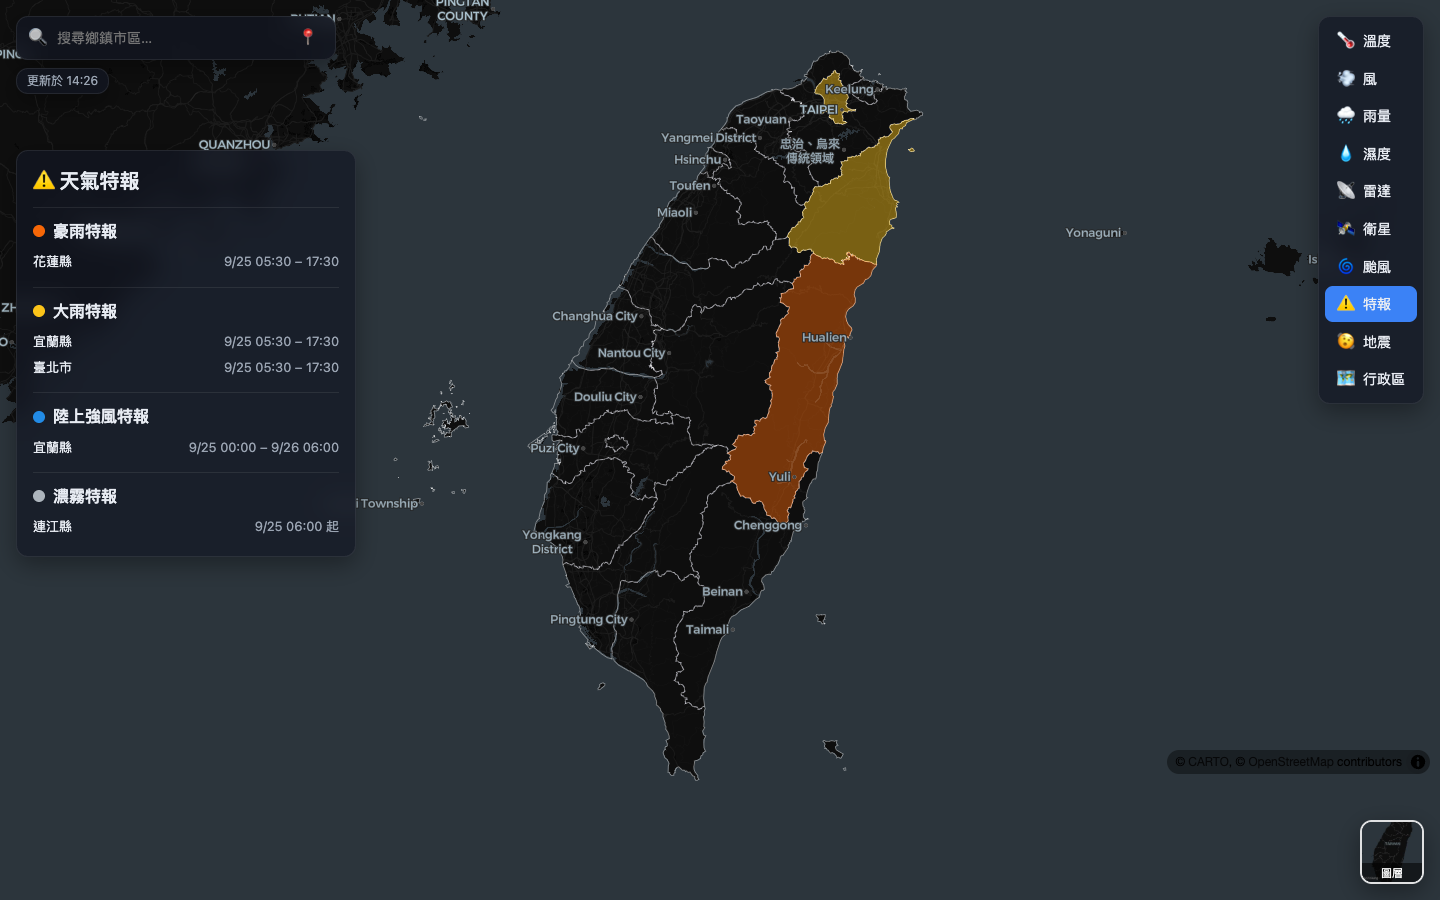
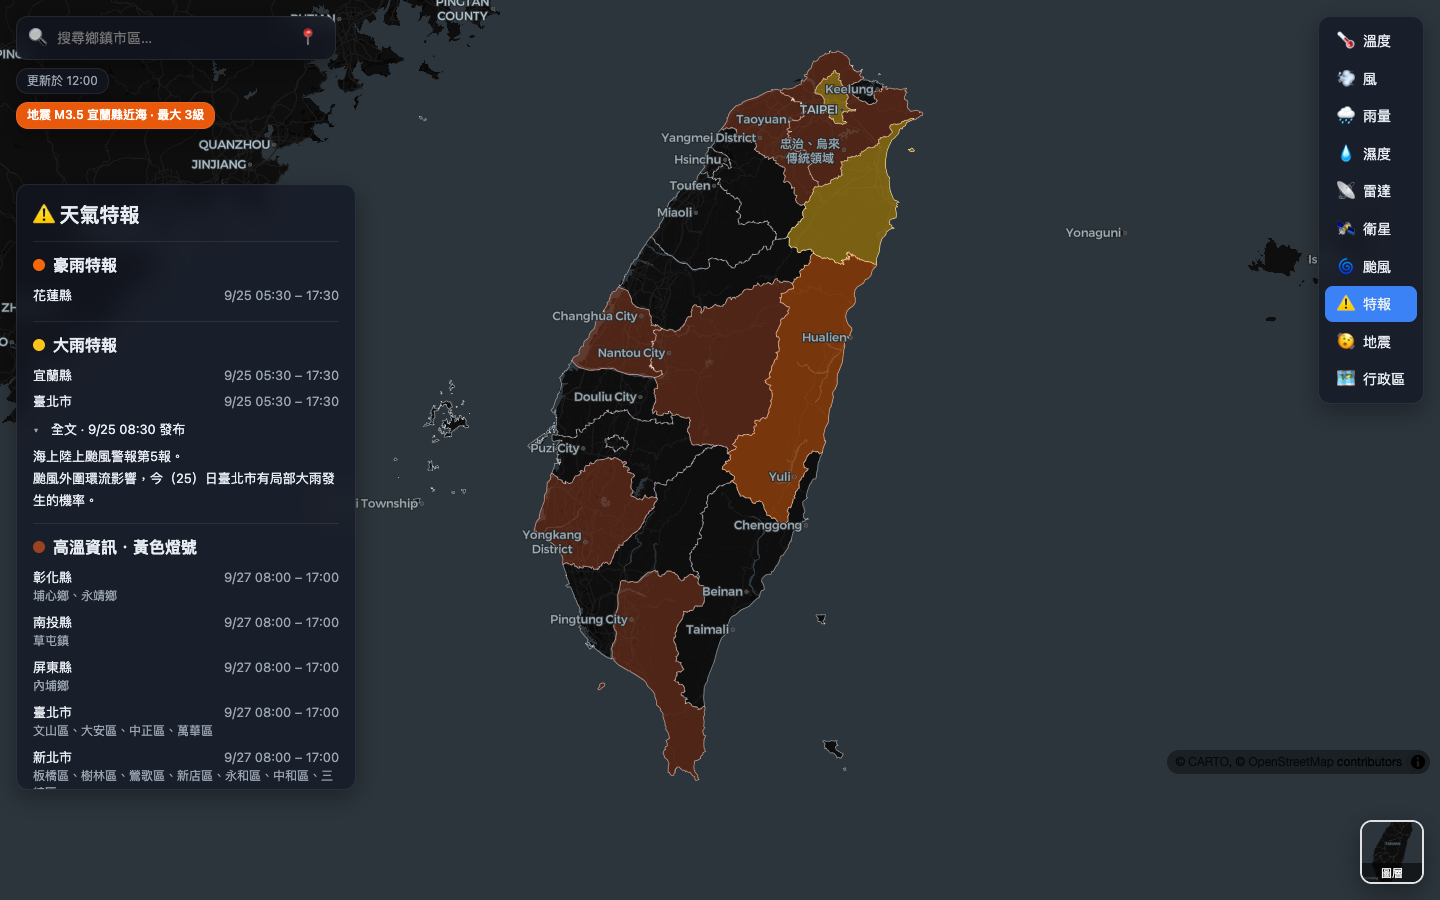
docs: describe warning text and heat info in readme
README 的特報說明加上高溫資訊與可展開的全文，資料集、API 路由、
快取表格補上 W-C0033-002、W-C0033-005 與 /api/warning-texts；特報
截圖改為加上高溫資訊、大雨特報全文展開的畫面。

The README's warning section now covers heat information and the
expandable full text, the dataset, route and cache tables list
W-C0033-002, W-C0033-005 and /api/warning-texts, and the warning
screenshot shows heat information with the heavy-rain text open.

diff --git a/README.md b/README.md
@@ -32,11 +32,11 @@
 |---|
 | ![底圖切換](docs/screenshots/basemap.png) |
 
-| 特報（縣市依最嚴重種類著色，資訊卡依種類列出縣市與有效時間） | 特報描邊（其他天氣圖層上以同色描邊標示特報縣市；圖為雷達） |
+| 特報（縣市依最嚴重種類著色，資訊卡依種類列出縣市與有效時間，可展開 CWA 全文） | 特報描邊（其他天氣圖層上以同色描邊標示特報縣市；圖為雷達） |
 |---|---|
 | ![特報](docs/screenshots/warning.png) | ![特報描邊](docs/screenshots/warning-outline.png) |
 
-特報兩張圖為示意，以測試資料模擬宜蘭、花蓮、臺北、連江的特報。
+特報兩張圖為示意，以測試資料模擬宜蘭、花蓮、臺北、連江的特報；特報圖另加 2026-09-27 的高溫資訊。
 
 | 地震（震央依規模與最大震度上色；選取的地震以星號標示、測站依震度上色，資訊卡列出各縣市震度與近期清單） |
 |---|
@@ -55,7 +55,7 @@
 - **雷達回放**：過去 3 小時、每 10 分鐘一格的雷達回波格點（CWA 歷史 API `O-A0059-001`），server 依 CWA 官方色標畫成 PNG 並長期快取；可播放、拖曳與鍵盤切格，播到「現在」停 1.5 秒再重播，下方附 0–65 dBZ 圖例
 - **雷達／衛星**：經緯度等距影像逐列重投影為 Web Mercator 後疊圖；衛星紅外線雲圖可切換「色調強化」（依雲頂溫度由灰、藍、綠、黃到紅紫上色）或白色半透明雲層
 - **颱風**：活動中熱帶氣旋的過去／預測路徑、七級風暴風圈與 70% 潛勢圓，點路徑點看該時刻數值；切入時自動縮放到台灣與整條路徑；拖曳或播放預報時間軸時，颱風中心、七級風暴風圈與 70% 潛勢圓沿預測路徑移動，潛勢圓隨預報時間變大；溫度、風、雨量、濕度圖層上也會畫出颱風路徑與同樣移動的颱風
-- **特報**：發布中的縣市天氣特報依最嚴重種類為縣市著色（颱風警報、大豪雨、豪雨、大雨、低溫、強風、濃霧），資訊卡依種類列出縣市與有效時間；左上角徽章在任何圖層都提示目前特報，點了切到特報圖層；在溫度、風、雨量、濕度、雷達、衛星、颱風圖層上，有特報的縣市以同色描邊標示，時間軸拖到未來預報時淡出
+- **特報**：發布中的縣市天氣特報依最嚴重種類為縣市著色（颱風警報、大豪雨、豪雨、大雨、高溫、低溫、強風、濃霧），資訊卡依種類列出縣市與有效時間，高溫資訊依燈號分組並列出鄉鎮，每種特報可展開 CWA 發布的全文；左上角徽章在任何圖層都提示目前特報，點了切到特報圖層；在溫度、風、雨量、濕度、雷達、衛星、颱風圖層上，有特報的縣市以同色描邊標示，時間軸拖到未來預報時淡出
 - **地震**：合併顯著有感與小區域有感地震報告，震央依規模與最大震度畫成圓點；選取的地震以星號標示並依震度為各測站上色，資訊卡列出各縣市震度（可展開看測站）與近期地震清單；一小時內發生地震時，左上角徽章在任何圖層都會提示，點了切到地震圖層
 - **底圖切換**：右下角可切換深色、淺色、街道、衛星（Sentinel-2 無雲影像＋國土測繪中心正射影像）與地形（OpenTopoMap）；淺色底圖上的界線、颱風路徑與風粒子自動改用深色
 - **可分享網址**：圖層、時間、鄉鎮狀態同步到 URL（例：`?layer=temp&town=66000060`）
@@ -82,7 +82,7 @@ flowchart LR
     CDN["CDN 快取<br/>s-maxage=60, SWR=60"]
     subgraph Fn["Vercel Functions（api/*.ts）"]
       direction TB
-      API["路由<br/>observations · towns · forecast<br/>forecast-grid · radar · radar-frame · satellite · satellite-tile<br/>typhoon · warnings · earthquakes"]
+      API["路由<br/>observations · towns · forecast<br/>forecast-grid · radar · radar-frame · satellite · satellite-tile<br/>typhoon · warnings · warning-texts · earthquakes"]
       Service["service.ts"]
       Fresh["freshness.ts<br/>TTL 檢查 · 併發去重 · 失敗退避"]
       Sync["sync.ts<br/>抓取 → parse → 寫入"]
@@ -99,7 +99,7 @@ flowchart LR
 
   subgraph CWA["中央氣象署開放資料平臺"]
     direction TB
-    DS["datastore API<br/>O-A0001/0002/0003-001 觀測<br/>F-D0047-093 鄉鎮預報<br/>W-C0034-005 颱風路徑<br/>W-C0033-001 縣市特報<br/>E-A0015/0016-001 有感地震"]
+    DS["datastore API<br/>O-A0001/0002/0003-001 觀測<br/>F-D0047-093 鄉鎮預報<br/>W-C0034-005 颱風路徑<br/>W-C0033-001 縣市特報<br/>W-C0033-002 特報全文<br/>W-C0033-005 高溫資訊<br/>E-A0015/0016-001 有感地震"]
     HA["historyapi<br/>O-A0059-001 雷達回波格點（過去 3 小時）"]
     FA["fileapi<br/>O-B0033-003 衛星"]
     S3["S3 公開檔<br/>雷達格點 XML · 衛星 KMZ"]
@@ -166,7 +166,7 @@ sequenceDiagram
 | 雷達時間清單 | 10 分鐘 | 10 分鐘（單格 PNG 長期快取） |
 | 衛星 | 10 分鐘 | 10 分鐘 |
 | 颱風 | 30 分鐘 | 10 分鐘 |
-| 特報 | 10 分鐘 | 10 分鐘 |
+| 特報（含高溫資訊與全文） | 10 分鐘 | 10 分鐘 |
 | 地震 | 5 分鐘 | 5 分鐘 |
 
 ### 部署與種子資料
@@ -249,7 +249,8 @@ aiot03/
 | `GET /api/satellite` | 最新衛星雲圖圖塊清單 |
 | `GET /api/satellite-tile?id=2/1/2` | 衛星雲圖圖塊（PNG，存於 SQLite） |
 | `GET /api/typhoon` | 活動中熱帶氣旋的過去與預測路徑 |
-| `GET /api/warnings` | 發布中的縣市天氣特報 |
+| `GET /api/warnings` | 發布中的縣市天氣特報（含高溫資訊） |
+| `GET /api/warning-texts` | 特報全文（含高溫資訊的說明與注意事項） |
 | `GET /api/earthquakes` | 近期顯著有感與小區域有感地震（含各縣市與測站震度） |
 
 所有 JSON 回應格式為 `{ data, updatedAt, stale }`，`stale: true` 表示 CWA 暫時無法更新、回傳的是舊資料。
